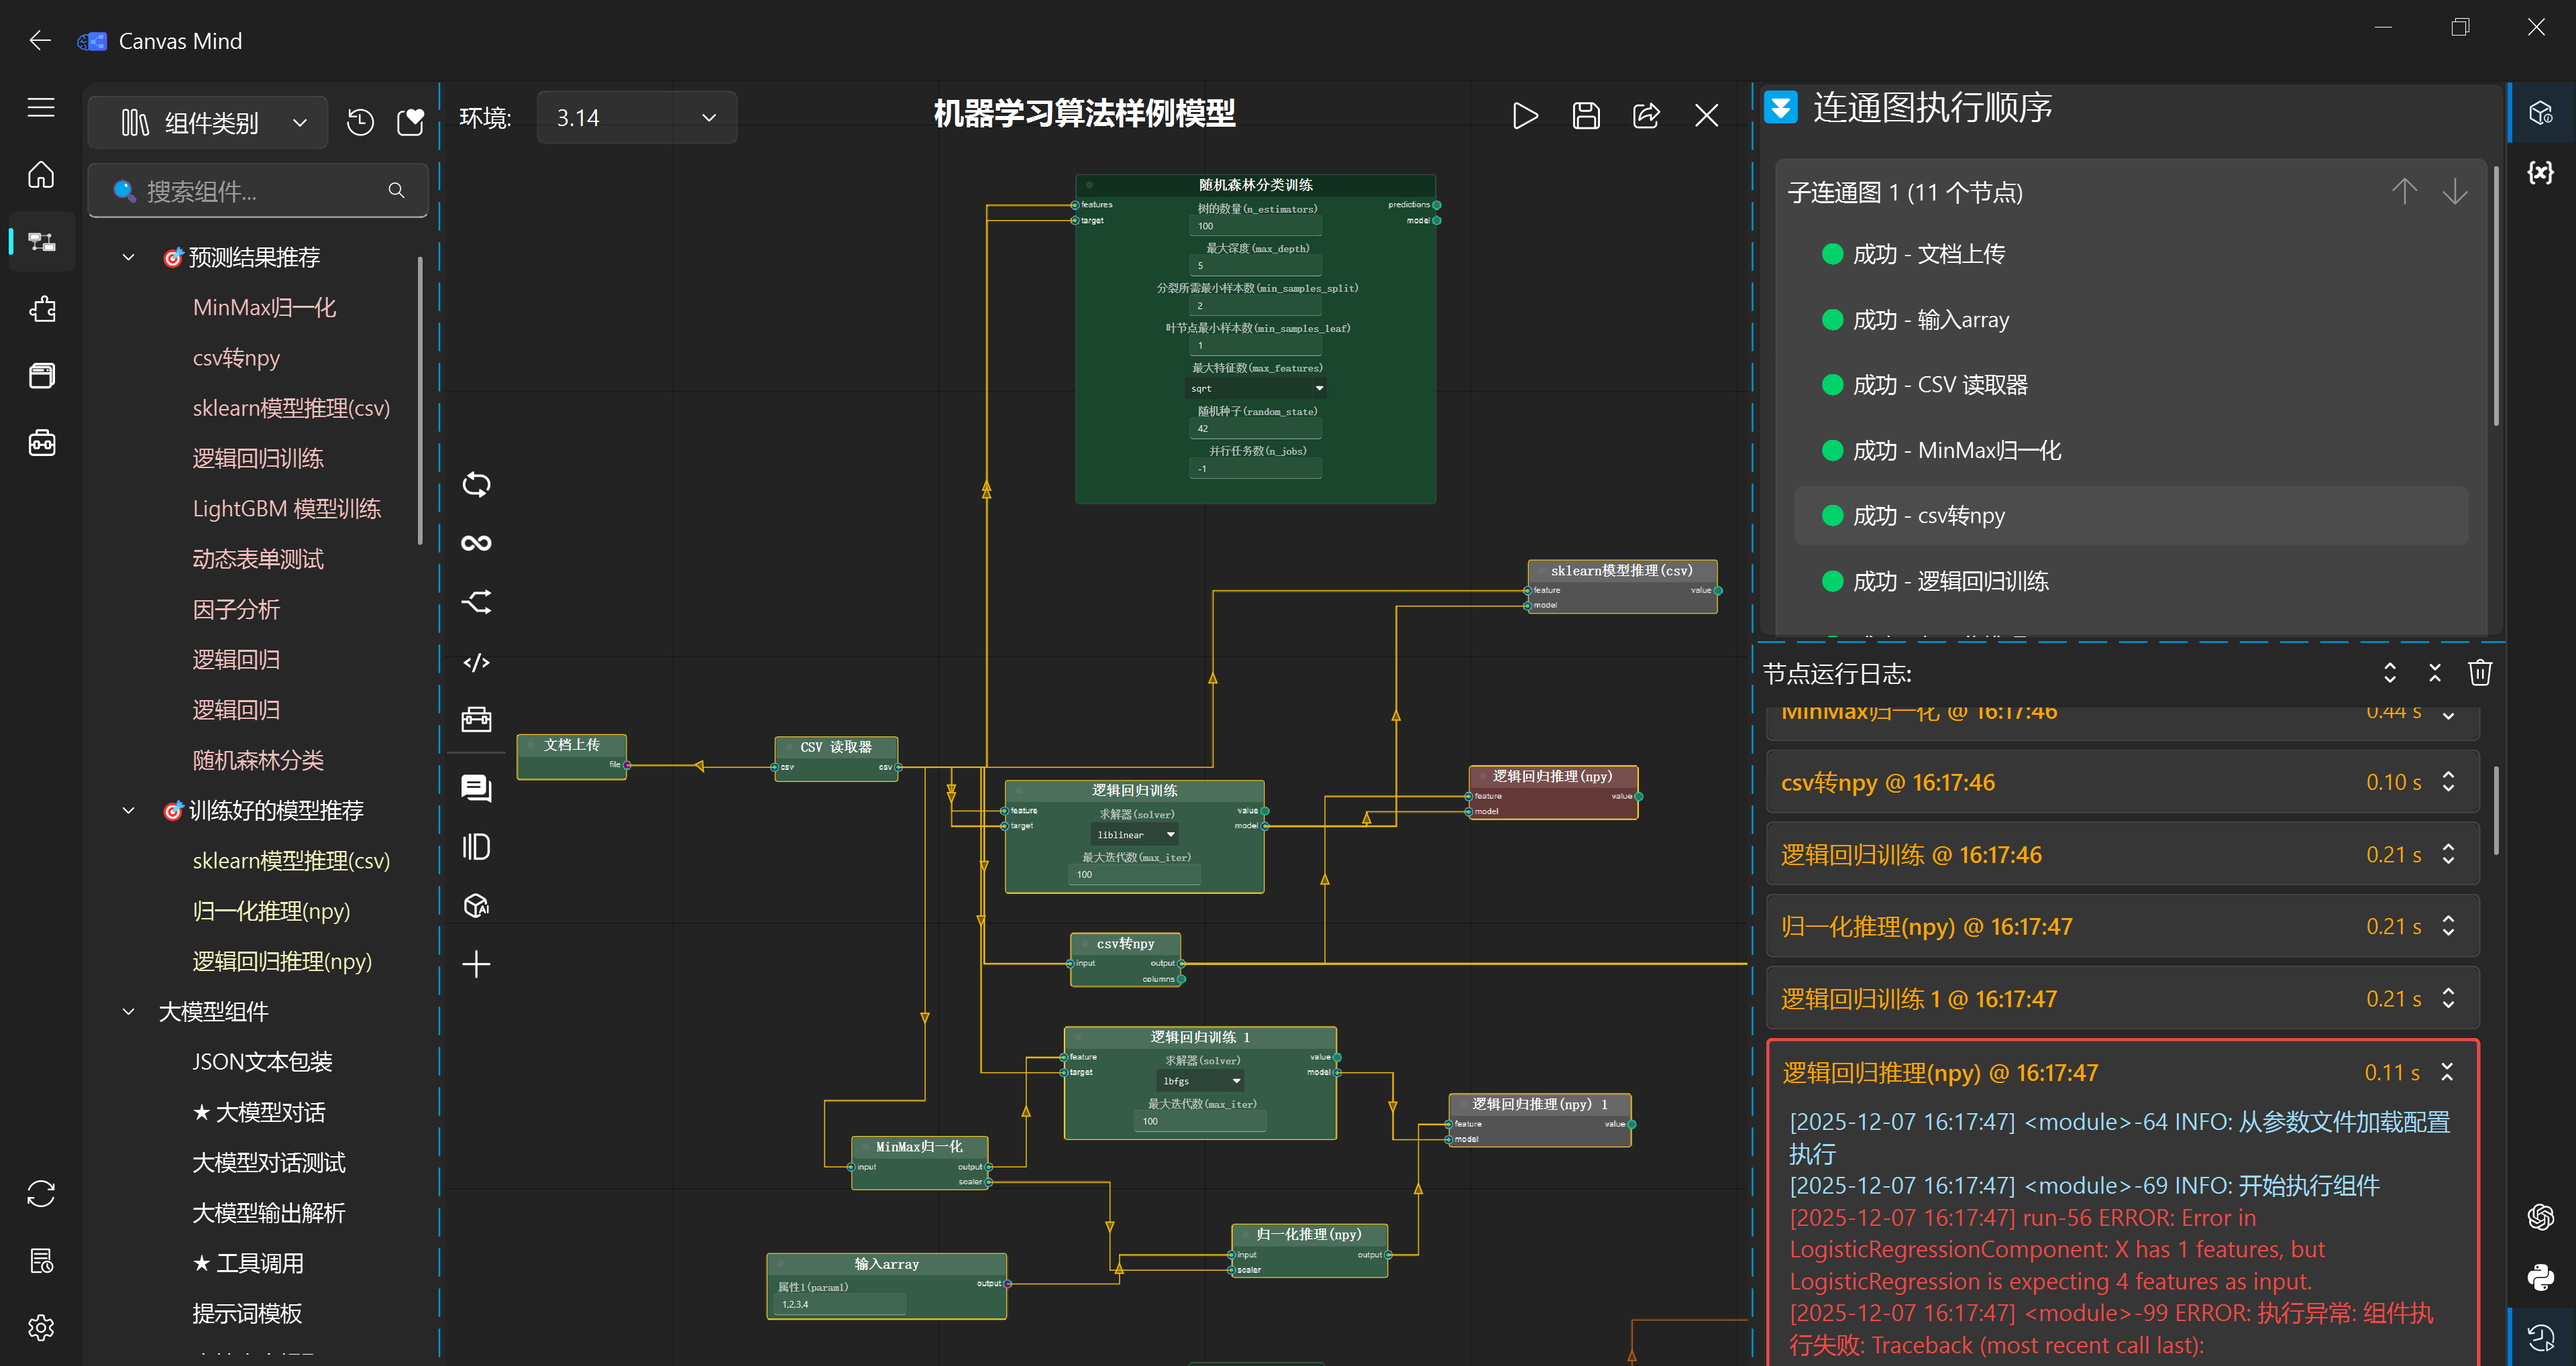
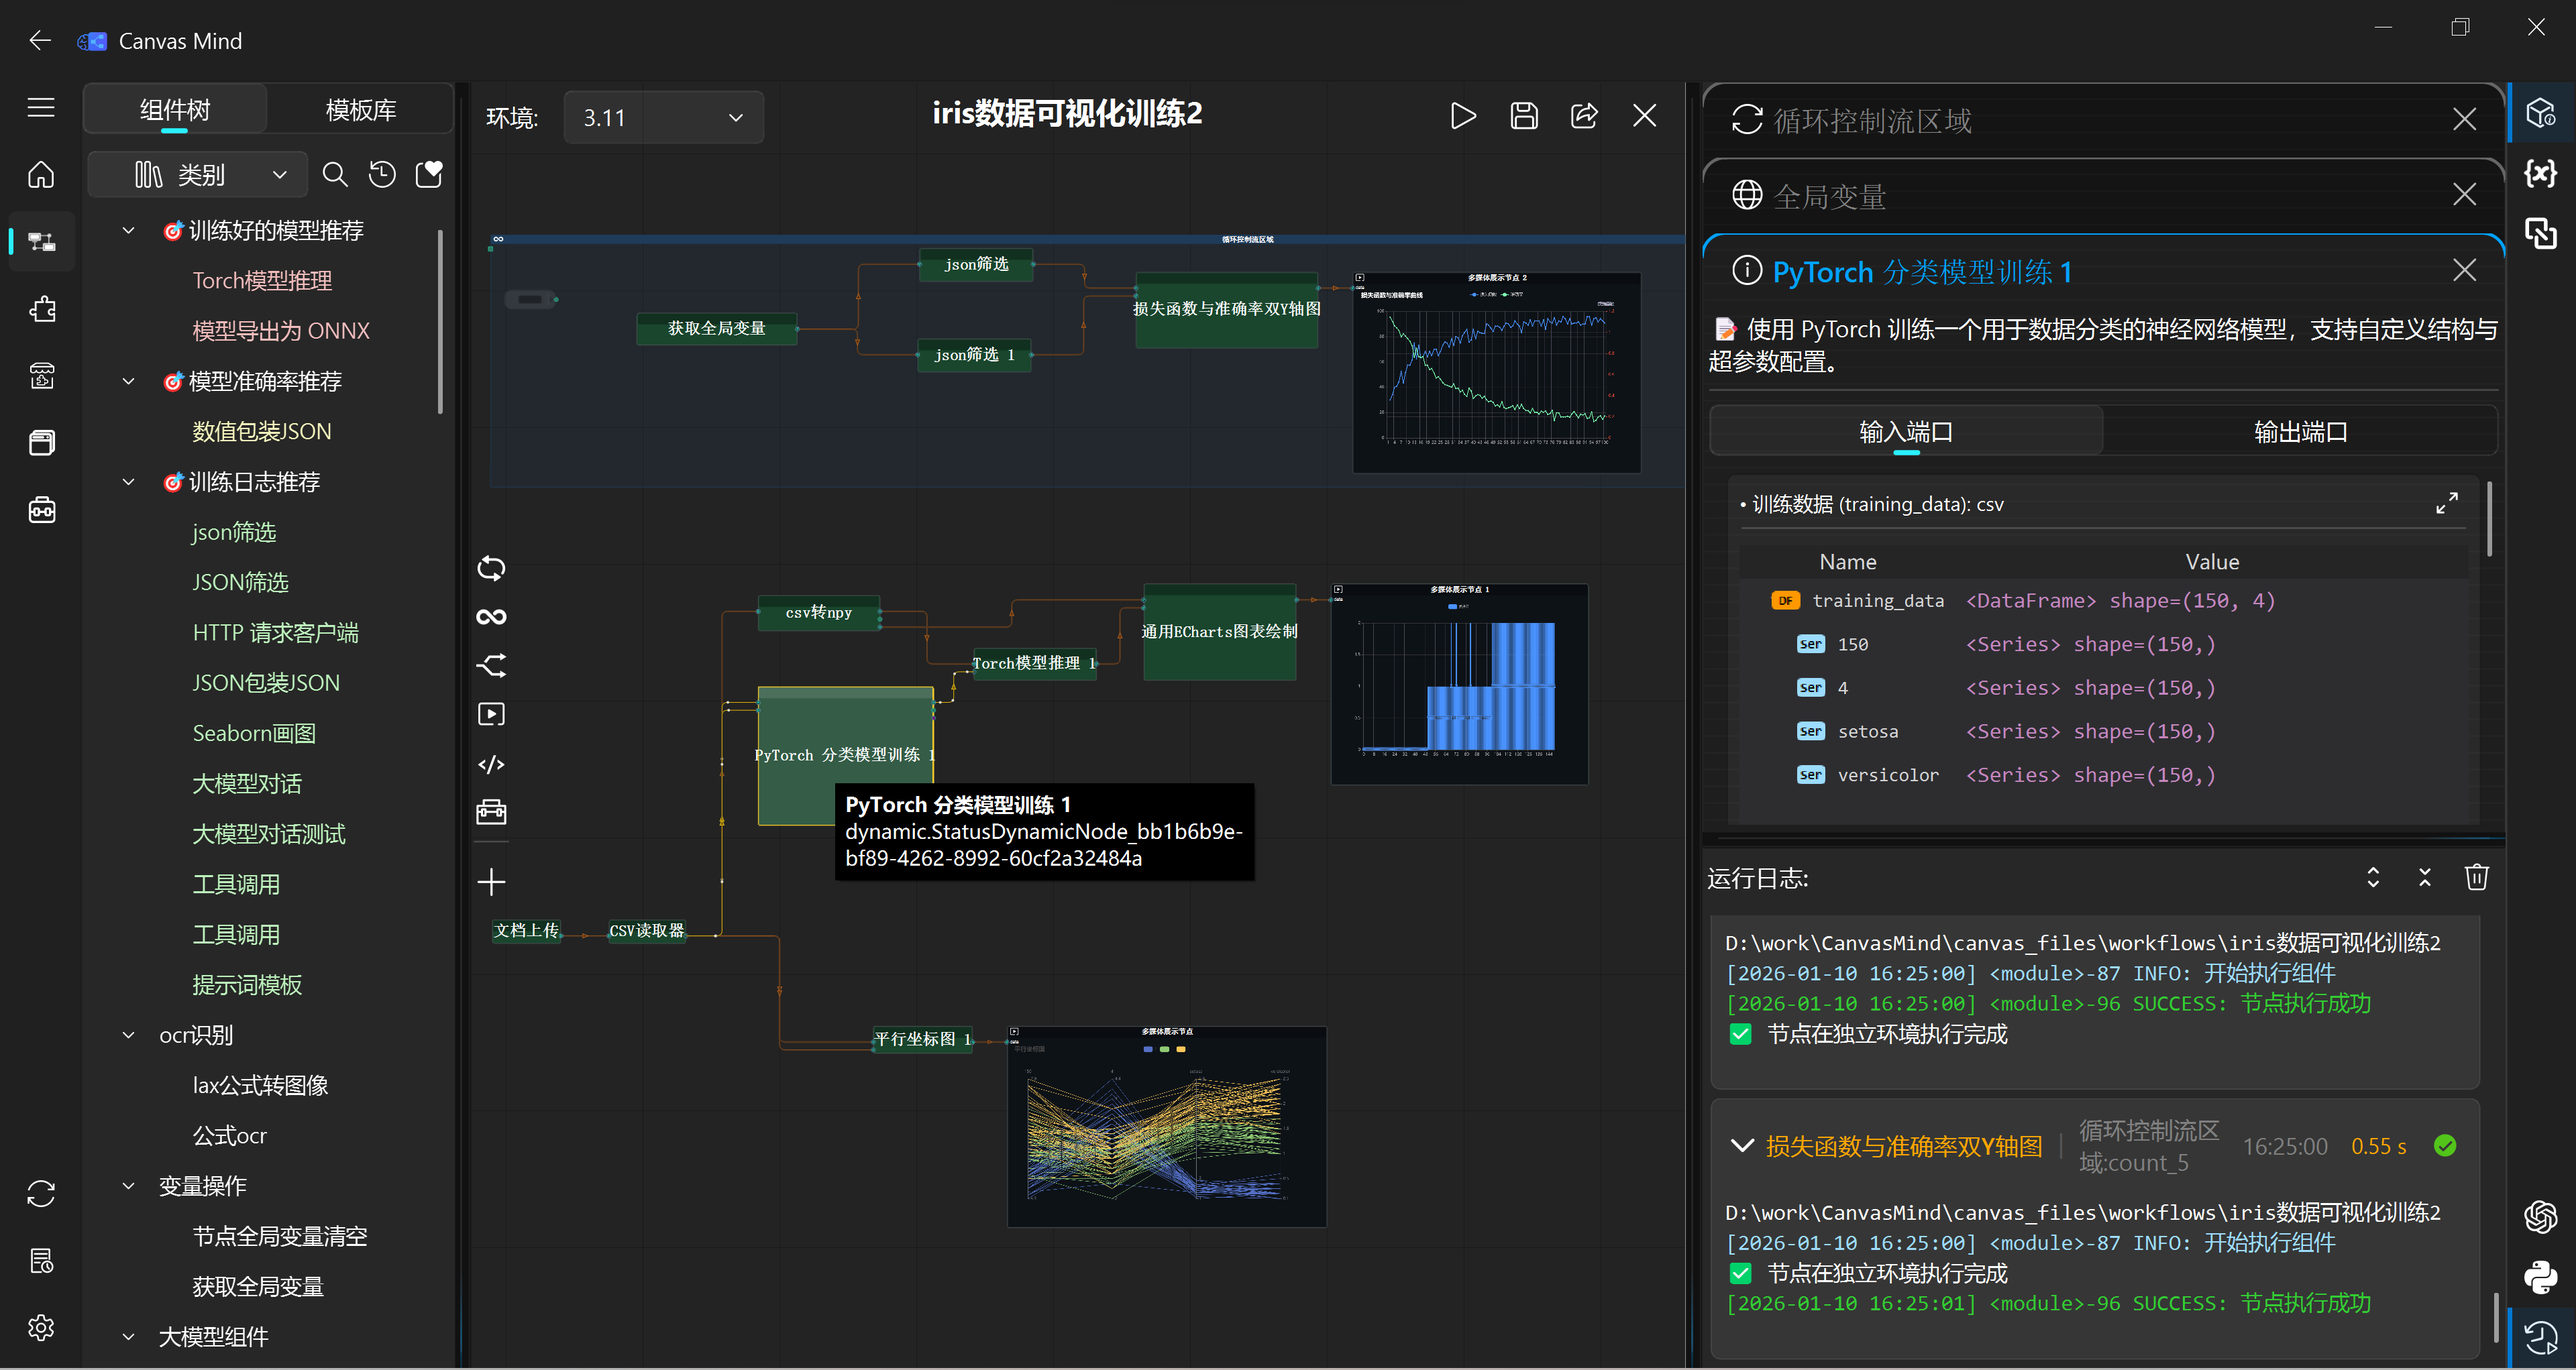
chore(config): 更新版本号至 v0.2.7
- 将当前版本从 v0.2.6 更新为 v0.2.7

diff --git a/app/utils/config.py b/app/utils/config.py
@@ -37,7 +37,7 @@ class QuickComponentsSerializer(ConfigSerializer):
 class Settings(QConfig):
     _instance = None
     # 版本信息
-    current_version = "v0.2.6"
+    current_version = "v0.2.7"
     user_name = ConfigItem("General", "UserName", str(uuid4().hex))
     # 通用设置
     auto_check_update = ConfigItem("General", "AutoCheckUpdate", True, BoolValidator())
